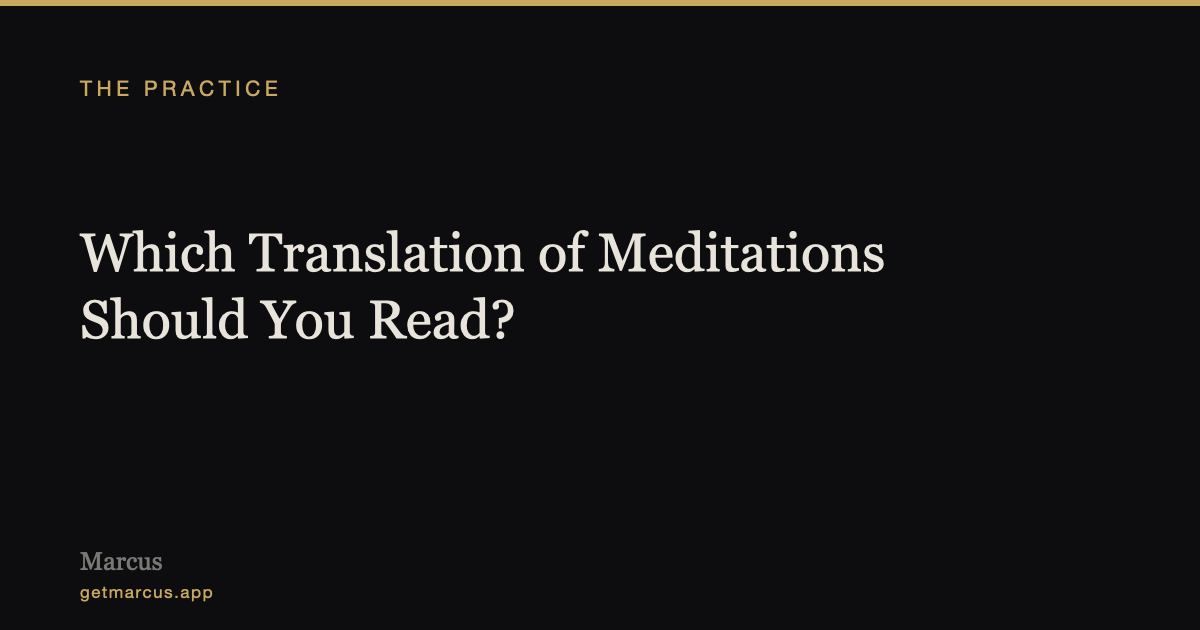
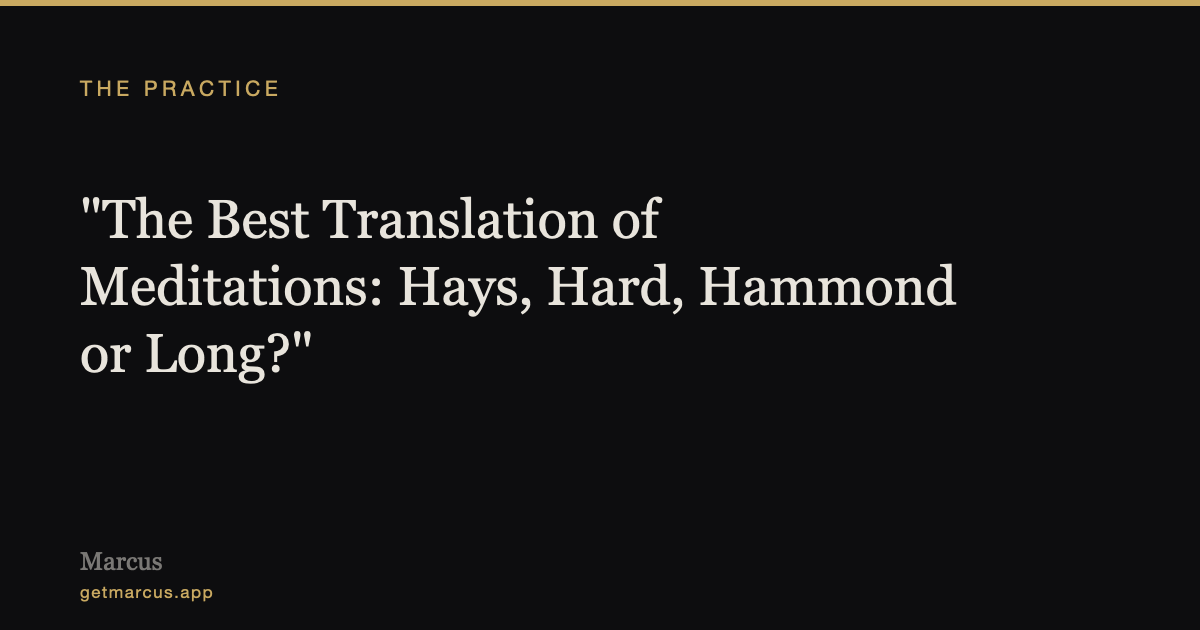
Translations page: searchers' words in the title, and one passage in three translations
It drew 289 impressions a month at positions 10 to 37 for 'best translation
of meditations' and kin, under a title that used none of those words. Adds
V.1 in Casaubon, Long and Hays, each checked verbatim (the first two against
Project Gutenberg #2680 and #15877), says why Hard, Hammond and Waterfield
are not quoted, and fixes a misquotation of Long: he wrote 'busybody', not
'busy-body'.

Changed region(s): [[0.0617, 0.3016, 0.8017, 0.6032]]

diff --git a/public/best-translation-of-meditations.html b/public/best-translation-of-meditations.html
@@ -1,4 +1,4 @@
-<!doctype html><html lang="en"><head><meta charset="utf-8"><meta name="viewport" content="width=device-width, initial-scale=1"><script src="/analytics.js"></script><title>Which Translation of Meditations Should You Read? | Marcus</title><meta name="description" content="Hays, Hard, Hammond, Waterfield and the free public-domain versions compared. Which to buy, which to avoid as a first read, and why the free Kindle edition sounds like the King James Bible."><meta name="robots" content="index, follow, max-image-preview:large"><link rel="canonical" href="https://getmarcus.app/best-translation-of-meditations"><meta property="og:type" content="article"><meta property="og:site_name" content="Marcus"><meta property="og:title" content="Which Translation of Meditations Should You Read?"><meta property="og:description" content="Hays, Hard, Hammond, Waterfield and the free public-domain versions compared. Which to buy, which to avoid as a first read, and why the free Kindle edition sounds like the King James Bible."><meta property="og:url" content="https://getmarcus.app/best-translation-of-meditations"><meta property="og:image" content="https://getmarcus.app/og/best-translation-of-meditations.png"><meta property="og:image:width" content="1200"><meta property="og:image:height" content="630"><meta name="twitter:card" content="summary_large_image"><meta name="twitter:title" content="Which Translation of Meditations Should You Read?"><meta name="twitter:description" content="Hays, Hard, Hammond, Waterfield and the free public-domain versions compared. Which to buy, which to avoid as a first read, and why the free Kindle edition sounds like the King James Bible."><meta name="twitter:image" content="https://getmarcus.app/og/best-translation-of-meditations.png"><link rel="icon" href="/favicon.ico" sizes="48x48"><link rel="icon" type="image/png" href="/favicon.png"><link rel="apple-touch-icon" href="/apple-touch-icon.png"><link rel="preconnect" href="https://fonts.googleapis.com"><link rel="preconnect" href="https://fonts.gstatic.com" crossorigin><link rel="preload" as="style" href="https://fonts.googleapis.com/css2?family=Cinzel:wght@400;600;700&family=Inter:ital,wght@0,400;0,500;1,300;1,400&display=swap"><link rel="stylesheet" href="https://fonts.googleapis.com/css2?family=Cinzel:wght@400;600;700&family=Inter:ital,wght@0,400;0,500;1,300;1,400&display=swap" media="print" onload="this.media='all';this.onload=null"><noscript><link rel="stylesheet" href="https://fonts.googleapis.com/css2?family=Cinzel:wght@400;600;700&family=Inter:ital,wght@0,400;0,500;1,300;1,400&display=swap"></noscript><style>
+<!doctype html><html lang="en"><head><meta charset="utf-8"><meta name="viewport" content="width=device-width, initial-scale=1"><script src="/analytics.js"></script><title>The Best Translation of Meditations: Hays, Hard, Hammond or Long? | Marcus</title><meta name="description" content="The best version of Marcus Aurelius's Meditations to read, compared. Hays, Hard, Hammond, Waterfield and the free Long and Casaubon, with the same passage in three translations side by side."><meta name="robots" content="index, follow, max-image-preview:large"><link rel="canonical" href="https://getmarcus.app/best-translation-of-meditations"><meta property="og:type" content="article"><meta property="og:site_name" content="Marcus"><meta property="og:title" content="The Best Translation of Meditations: Hays, Hard, Hammond or Long?"><meta property="og:description" content="The best version of Marcus Aurelius's Meditations to read, compared. Hays, Hard, Hammond, Waterfield and the free Long and Casaubon, with the same passage in three translations side by side."><meta property="og:url" content="https://getmarcus.app/best-translation-of-meditations"><meta property="og:image" content="https://getmarcus.app/og/best-translation-of-meditations.png"><meta property="og:image:width" content="1200"><meta property="og:image:height" content="630"><meta name="twitter:card" content="summary_large_image"><meta name="twitter:title" content="The Best Translation of Meditations: Hays, Hard, Hammond or Long?"><meta name="twitter:description" content="The best version of Marcus Aurelius's Meditations to read, compared. Hays, Hard, Hammond, Waterfield and the free Long and Casaubon, with the same passage in three translations side by side."><meta name="twitter:image" content="https://getmarcus.app/og/best-translation-of-meditations.png"><link rel="icon" href="/favicon.ico" sizes="48x48"><link rel="icon" type="image/png" href="/favicon.png"><link rel="apple-touch-icon" href="/apple-touch-icon.png"><link rel="preconnect" href="https://fonts.googleapis.com"><link rel="preconnect" href="https://fonts.gstatic.com" crossorigin><link rel="preload" as="style" href="https://fonts.googleapis.com/css2?family=Cinzel:wght@400;600;700&family=Inter:ital,wght@0,400;0,500;1,300;1,400&display=swap"><link rel="stylesheet" href="https://fonts.googleapis.com/css2?family=Cinzel:wght@400;600;700&family=Inter:ital,wght@0,400;0,500;1,300;1,400&display=swap" media="print" onload="this.media='all';this.onload=null"><noscript><link rel="stylesheet" href="https://fonts.googleapis.com/css2?family=Cinzel:wght@400;600;700&family=Inter:ital,wght@0,400;0,500;1,300;1,400&display=swap"></noscript><style>
 *{box-sizing:border-box}
 body{margin:0;background:#0d0d0f;color:#e8e4dc;font-family:Inter,system-ui,-apple-system,sans-serif;line-height:1.7;-webkit-font-smoothing:antialiased}
 a{color:inherit}
@@ -44,4 +44,4 @@ img{max-width:100%;display:block}
 
 /* Shared chrome last: these override the builder's own nav rules, and a
    mobile menu that cannot hide is worse than no mobile menu. */
-@media (min-width:721px){.ar-nav-toggle{display:none}}@media (max-width:720px){.ar-nav{flex-wrap:wrap}.ar-nav-toggle{display:flex;flex-direction:column;justify-content:center;gap:5px;width:44px;height:44px;padding:0 10px;background:none;border:0;cursor:pointer}.ar-nav-toggle span{display:block;height:2px;background:#e8e4dc;border-radius:2px;transition:.2s}.ar-nav-open .ar-nav-toggle span:nth-child(1){transform:translateY(7px) rotate(45deg)}.ar-nav-open .ar-nav-toggle span:nth-child(2){opacity:0}.ar-nav-open .ar-nav-toggle span:nth-child(3){transform:translateY(-7px) rotate(-45deg)}.ar-nav-right{display:none;flex-basis:100%;flex-direction:column;align-items:stretch;gap:0;padding:4px 0 10px}.ar-nav-open .ar-nav-right{display:flex}.ar-nav-right .ar-nav-link{padding:14px 2px;border-top:1px solid rgba(232,228,220,.1)}.ar-nav-right .ar-nav-cta{margin-top:14px;text-align:center;padding:13px 16px}}img[src="/skull-gold.png"]{object-fit:contain}a:focus-visible,button:focus-visible,input:focus-visible,textarea:focus-visible,[tabindex]:focus-visible{outline:2px solid #c9a961;outline-offset:3px;border-radius:3px}.ar-skip{position:absolute;left:-9999px;top:0;z-index:100;background:#c9a961;color:#0d0d0f;padding:10px 16px;border-radius:0 0 8px 0;font-size:14px;text-decoration:none}.ar-skip:focus{left:0}</style><script type="application/ld+json">{"@context":"https://schema.org","@graph":[{"@type":"Article","@id":"https://getmarcus.app/best-translation-of-meditations#article","headline":"Which Translation of Meditations Should You Read?","description":"Hays, Hard, Hammond, Waterfield and the free public-domain versions compared. Which to buy, which to avoid as a first read, and why the free Kindle edition sounds like the King James Bible.","url":"https://getmarcus.app/best-translation-of-meditations","mainEntityOfPage":{"@id":"https://getmarcus.app/best-translation-of-meditations#webpage"},"datePublished":"2026-08-02","dateModified":"2026-08-02","inLanguage":"en-US","wordCount":766,"articleSection":"Stoic practice","author":{"@id":"https://getmarcus.app#author"},"publisher":{"@id":"https://getmarcus.app#org"},"isPartOf":{"@id":"https://getmarcus.app#website"},"about":[{"@type":"DefinedTerm","name":"Meditations","description":"The private notebook of Marcus Aurelius, written in Greek on campaign and never intended for publication.","sameAs":"https://en.wikipedia.org/wiki/Meditations"}],"mentions":[{"@type":"Person","name":"Marcus Aurelius","sameAs":"https://en.wikipedia.org/wiki/Marcus_Aurelius"},{"@type":"Person","name":"Gregory Hays","sameAs":"https://en.wikipedia.org/wiki/Meditations"}]},{"@type":"WebPage","@id":"https://getmarcus.app/best-translation-of-meditations#webpage","url":"https://getmarcus.app/best-translation-of-meditations","name":"Which Translation of Meditations Should You Read?","isPartOf":{"@id":"https://getmarcus.app#website"},"breadcrumb":{"@id":"https://getmarcus.app/best-translation-of-meditations#breadcrumb"}},{"@type":"BreadcrumbList","@id":"https://getmarcus.app/best-translation-of-meditations#breadcrumb","itemListElement":[{"@type":"ListItem","position":1,"name":"Home","item":"https://getmarcus.app/"},{"@type":"ListItem","position":2,"name":"Learn","item":"https://getmarcus.app/learn"},{"@type":"ListItem","position":3,"name":"Which Translation of Meditations Should You Read?"}]},{"@type":"Person","@id":"https://getmarcus.app#author","name":"Gio White","url":"https://getmarcus.app/about","sameAs":["https://www.linkedin.com/in/giovanniwhite/"],"worksFor":{"@id":"https://getmarcus.app#org"},"image":"https://getmarcus.app/img/author.jpg"},{"@type":"Organization","@id":"https://getmarcus.app#org","name":"Marcus","url":"https://getmarcus.app","logo":"https://getmarcus.app/skull-gold.png","description":"A Stoic practice app for iOS."},{"@type":"WebSite","@id":"https://getmarcus.app#website","url":"https://getmarcus.app","name":"Marcus","publisher":{"@id":"https://getmarcus.app#org"},"inLanguage":"en-US"}]}</script></head><body><a class="ar-skip" href="#main">Skip to content</a><nav class="ar-nav"><a class="ar-brand" href="/"><img src="/skull-gold.png" alt="Marcus" width="27" height="36"><span>Marcus</span></a><button class="ar-nav-toggle" type="button" aria-expanded="false" aria-controls="ar-menu" aria-label="Menu"><span></span><span></span><span></span></button><div class="ar-nav-right" id="ar-menu"><a class="ar-nav-link" href="/learn">Learn</a><a class="ar-nav-link" href="/stoics">The Stoics</a><a class="ar-nav-link" href="/stoic-quotes">Quotes</a><a class="ar-nav-cta" href="/">Get the app →</a></div></nav><script>(function(){var n=document.querySelector(".ar-nav");if(!n)return;var b=n.querySelector(".ar-nav-toggle");if(!b)return;b.addEventListener("click",function(){var o=n.classList.toggle("ar-nav-open");b.setAttribute("aria-expanded",o?"true":"false");});})();</script><article class="ar-main" id="main"><header class="ar-head"><p class="ar-eyebrow"><a href="/learn">The practice</a></p><h1 class="ar-title">Which Translation of Meditations Should You Read?</h1><p class="ar-byline"><img src="/img/author.jpg" alt="" width="30" height="30">By <a href="/about">Gio White</a><span>&middot;</span><a href="/about">How sources are checked</a></p></header><p class="ar-p">Marcus wrote in Greek, for himself, with no intention of being read. That makes the <em>Meditations</em> unusually dependent on its translator: there is no argument to follow and no narrative to carry you, so if the prose does not land, the book does not work.</p><p class="ar-p">Which is why people who bought the wrong edition often conclude the <em>Meditations</em> is dry. Usually they downloaded the free one.</p><h2 class="ar-h2">The short answer</h2><p class="ar-p"><strong>Buy the Gregory Hays translation</strong> (Modern Library, 2002) if you are reading it for practice rather than scholarship. It is the one we recommend in our <a href="/library">Library</a>, and for most readers it is not close.</p><p class="ar-p">Read on if you want to know what you are trading away, because Hays does trade something.</p><h2 class="ar-h2">The free version, and why it reads oddly</h2><p class="ar-p">Almost every free ebook of the <em>Meditations</em> is <strong>George Long&rsquo;s 1862 translation</strong>, because it is long out of copyright. It is a serious piece of Victorian scholarship and it is the reason many people believe Marcus wrote like a bishop.</p><blockquote class="ar-quote"><span>Begin the morning by saying to thyself, I shall meet with the busy-body, the ungrateful, arrogant, deceitful, envious, unsocial.</span></blockquote><p class="ar-p">That is Long. It is accurate. It is also 160 years old, and the archaism is Long&rsquo;s, not Marcus&rsquo;s. Marcus wrote plain, urgent, sometimes ungrammatical notes to himself. Meric Casaubon&rsquo;s 1634 version, also free, is further away still.</p><p class="ar-p">If you have tried the <em>Meditations</em> and found it stiff, this is very likely what happened. It is not the book.</p><h2 class="ar-h2">The main modern options</h2><p class="ar-p"><strong>Gregory Hays</strong> (Modern Library, 2002) &mdash; <em>the recommendation.</em></p><p class="ar-p">Hays writes as though Marcus were talking, because he was. Short lines, contemporary English, no ornament. &quot;The impediment to action advances action. What stands in the way becomes the way&quot; is his, and its afterlife tells you something about how well it works.</p><p class="ar-p">The trade: Hays takes liberties. He compresses, he breaks paragraphs where the Greek does not, and he occasionally sacrifices literal accuracy for force. Scholars have reservations. For a reader who wants the book to change how they act on a Tuesday, those reservations do not much matter. His introduction is also the best short essay on Marcus you can get for the price of the book.</p><p class="ar-p"><strong>Robin Hard</strong> (Oxford World&rsquo;s Classics, 2011) &mdash; <em>the best balance.</em></p><p class="ar-p">More faithful than Hays, more readable than Long, and the Oxford notes are genuinely useful when Marcus refers to something you do not know. If you want one edition to keep and reread, this is a strong case. Hard also translated the Epictetus we recommend, so the two sit well together.</p><p class="ar-p"><strong>Martin Hammond</strong> (Penguin Classics, 2006) &mdash; <em>the scholarly middle.</em></p><p class="ar-p">Careful, well annotated, slightly cooler on the page than Hays. Excellent if you want precision without archaism.</p><p class="ar-p"><strong>Robin Waterfield</strong> (Basic Books, 2021) &mdash; <em>the newest.</em></p><p class="ar-p">A fine modern translation with substantial commentary, and Waterfield is a very experienced hand with Greek philosophy. Worth considering if you like heavy apparatus.</p><h2 class="ar-h2">Which to actually buy</h2><p class="ar-p"><strong>Reading it to practice, first time:</strong> Hays. It is the only one that consistently makes people want to keep reading.</p><p class="ar-p"><strong>Reading it as a text you will return to for years:</strong> Hard. Better notes, closer to the Greek, still alive on the page.</p><p class="ar-p"><strong>Reading it for study or comparison:</strong> Hammond or Waterfield, and ideally alongside one of the others.</p><p class="ar-p"><strong>Reading it for free:</strong> Long is legitimate and costs nothing. Know that the distance you feel is Victorian English, not Marcus.</p><p class="ar-p">A reasonable approach many people land on: Hays to read, Hard to keep.</p><h2 class="ar-h2">One thing to watch when you quote it</h2><p class="ar-p">Because the translations differ so much, the same passage can be quoted in wordings that share almost no vocabulary. This is how the <em>Meditations</em> ends up looking like it contains far more distinct material than it does, and it is why quote collections repeat themselves without appearing to.</p><p class="ar-p">It is also why an unsourced Marcus quote is hard to verify: you cannot search for wording that no translator used. If a line has his name on it and no book and chapter, treat it with suspicion. Some of the most famous ones are not his at all, and we keep <a href="/misattributed-stoic-quotes">a list</a>.</p><h2 class="ar-h2">After the Meditations</h2><p class="ar-p">The usual next step is Epictetus, whose <em>Enchiridion</em> is short and whose <em>Discourses</em> are better. Then Seneca&rsquo;s letters, which are the most companionable prose in Stoicism.</p><p class="ar-p">All three, in the editions worth owning, are on our <a href="/library">Library</a> page, and the people behind them are on <a href="/stoics">The Stoics</a>. If you want the practice rather than more reading, start with <a href="/how-to-keep-a-stoic-journal">how to keep a Stoic journal</a>.</p><nav class="ar-pager"><a class="ar-pager-prev" href="/stoicism-is-not-suppressing-emotions"><span>Previous</span>Stoicism Is Not About Suppressing Emotions</a><a class="ar-pager-next" href="/did-marcus-aurelius-say-echoes-in-eternity"><span>Next</span>Did Marcus Aurelius Say &quot;What We Do in Life Echoes in Eternity&quot;?</a></nav><section class="ar-app"><img class="ar-app-skull" src="/skull-gold.png" alt="" width="64" height="64"><p class="ar-app-copy">Marcus turns this into a daily practice for iOS: a morning preparation, a daily reading, and a structured evening examination.</p><a class="ar-nav-cta" href="/">Explore the app →</a></section></article><footer class="ar-footer"><p>Marcus &middot; A Stoic Practice App &middot; <a href="/">getmarcus.app</a> &middot; <a href="/learn">Learn</a> &middot; <a href="/stoics">The Stoics</a> &middot; <a href="/library">The Library</a> &middot; <a href="/stoic-quotes">Sourced quotes</a> &middot; <a href="/check-a-stoic-quote">Check a quote</a> &middot; <a href="/misattributed-stoic-quotes">Attribution</a> &middot; <a href="/about">About</a></p></footer></body></html>
+@media (min-width:721px){.ar-nav-toggle{display:none}}@media (max-width:720px){.ar-nav{flex-wrap:wrap}.ar-nav-toggle{display:flex;flex-direction:column;justify-content:center;gap:5px;width:44px;height:44px;padding:0 10px;background:none;border:0;cursor:pointer}.ar-nav-toggle span{display:block;height:2px;background:#e8e4dc;border-radius:2px;transition:.2s}.ar-nav-open .ar-nav-toggle span:nth-child(1){transform:translateY(7px) rotate(45deg)}.ar-nav-open .ar-nav-toggle span:nth-child(2){opacity:0}.ar-nav-open .ar-nav-toggle span:nth-child(3){transform:translateY(-7px) rotate(-45deg)}.ar-nav-right{display:none;flex-basis:100%;flex-direction:column;align-items:stretch;gap:0;padding:4px 0 10px}.ar-nav-open .ar-nav-right{display:flex}.ar-nav-right .ar-nav-link{padding:14px 2px;border-top:1px solid rgba(232,228,220,.1)}.ar-nav-right .ar-nav-cta{margin-top:14px;text-align:center;padding:13px 16px}}img[src="/skull-gold.png"]{object-fit:contain}a:focus-visible,button:focus-visible,input:focus-visible,textarea:focus-visible,[tabindex]:focus-visible{outline:2px solid #c9a961;outline-offset:3px;border-radius:3px}.ar-skip{position:absolute;left:-9999px;top:0;z-index:100;background:#c9a961;color:#0d0d0f;padding:10px 16px;border-radius:0 0 8px 0;font-size:14px;text-decoration:none}.ar-skip:focus{left:0}</style><script type="application/ld+json">{"@context":"https://schema.org","@graph":[{"@type":"Article","@id":"https://getmarcus.app/best-translation-of-meditations#article","headline":"The Best Translation of Meditations: Hays, Hard, Hammond or Long?","description":"The best version of Marcus Aurelius's Meditations to read, compared. Hays, Hard, Hammond, Waterfield and the free Long and Casaubon, with the same passage in three translations side by side.","url":"https://getmarcus.app/best-translation-of-meditations","mainEntityOfPage":{"@id":"https://getmarcus.app/best-translation-of-meditations#webpage"},"datePublished":"2026-08-02","dateModified":"2026-10-28","inLanguage":"en-US","wordCount":965,"articleSection":"Stoic practice","author":{"@id":"https://getmarcus.app#author"},"publisher":{"@id":"https://getmarcus.app#org"},"isPartOf":{"@id":"https://getmarcus.app#website"},"about":[{"@type":"DefinedTerm","name":"Meditations","description":"The private notebook of Marcus Aurelius, written in Greek on campaign and never intended for publication.","sameAs":"https://en.wikipedia.org/wiki/Meditations"}],"mentions":[{"@type":"Person","name":"Marcus Aurelius","sameAs":"https://en.wikipedia.org/wiki/Marcus_Aurelius"},{"@type":"Person","name":"Gregory Hays","sameAs":"https://en.wikipedia.org/wiki/Meditations"}]},{"@type":"WebPage","@id":"https://getmarcus.app/best-translation-of-meditations#webpage","url":"https://getmarcus.app/best-translation-of-meditations","name":"The Best Translation of Meditations: Hays, Hard, Hammond or Long?","isPartOf":{"@id":"https://getmarcus.app#website"},"breadcrumb":{"@id":"https://getmarcus.app/best-translation-of-meditations#breadcrumb"}},{"@type":"BreadcrumbList","@id":"https://getmarcus.app/best-translation-of-meditations#breadcrumb","itemListElement":[{"@type":"ListItem","position":1,"name":"Home","item":"https://getmarcus.app/"},{"@type":"ListItem","position":2,"name":"Learn","item":"https://getmarcus.app/learn"},{"@type":"ListItem","position":3,"name":"The Best Translation of Meditations: Hays, Hard, Hammond or Long?"}]},{"@type":"Person","@id":"https://getmarcus.app#author","name":"Gio White","url":"https://getmarcus.app/about","sameAs":["https://www.linkedin.com/in/giovanniwhite/"],"worksFor":{"@id":"https://getmarcus.app#org"},"image":"https://getmarcus.app/img/author.jpg"},{"@type":"Organization","@id":"https://getmarcus.app#org","name":"Marcus","url":"https://getmarcus.app","logo":"https://getmarcus.app/skull-gold.png","description":"A Stoic practice app for iOS."},{"@type":"WebSite","@id":"https://getmarcus.app#website","url":"https://getmarcus.app","name":"Marcus","publisher":{"@id":"https://getmarcus.app#org"},"inLanguage":"en-US"}]}</script></head><body><a class="ar-skip" href="#main">Skip to content</a><nav class="ar-nav"><a class="ar-brand" href="/"><img src="/skull-gold.png" alt="Marcus" width="27" height="36"><span>Marcus</span></a><button class="ar-nav-toggle" type="button" aria-expanded="false" aria-controls="ar-menu" aria-label="Menu"><span></span><span></span><span></span></button><div class="ar-nav-right" id="ar-menu"><a class="ar-nav-link" href="/learn">Learn</a><a class="ar-nav-link" href="/stoics">The Stoics</a><a class="ar-nav-link" href="/stoic-quotes">Quotes</a><a class="ar-nav-cta" href="/">Get the app →</a></div></nav><script>(function(){var n=document.querySelector(".ar-nav");if(!n)return;var b=n.querySelector(".ar-nav-toggle");if(!b)return;b.addEventListener("click",function(){var o=n.classList.toggle("ar-nav-open");b.setAttribute("aria-expanded",o?"true":"false");});})();</script><article class="ar-main" id="main"><header class="ar-head"><p class="ar-eyebrow"><a href="/learn">The practice</a></p><h1 class="ar-title">The Best Translation of Meditations: Hays, Hard, Hammond or Long?</h1><p class="ar-byline"><img src="/img/author.jpg" alt="" width="30" height="30">By <a href="/about">Gio White</a><span>&middot;</span><a href="/about">How sources are checked</a></p></header><p class="ar-p">Marcus wrote in Greek, for himself, with no intention of being read. That makes the <em>Meditations</em> unusually dependent on its translator: there is no argument to follow and no narrative to carry you, so if the prose does not land, the book does not work.</p><p class="ar-p">Which is why people who bought the wrong edition often conclude the <em>Meditations</em> is dry. Usually they downloaded the free one.</p><h2 class="ar-h2">What is the best translation of Meditations?</h2><p class="ar-p"><strong>Buy the Gregory Hays translation</strong> (Modern Library, 2002) if you are reading it for practice rather than scholarship. It is the one we recommend in our <a href="/library">Library</a>, and for most readers it is not close.</p><p class="ar-p">Read on if you want to know what you are trading away, because Hays does trade something.</p><h2 class="ar-h2">The free version, and why it reads oddly</h2><p class="ar-p">Almost every free ebook of the <em>Meditations</em> is <strong>George Long&rsquo;s 1862 translation</strong>, because it is long out of copyright. It is a serious piece of Victorian scholarship and it is the reason many people believe Marcus wrote like a bishop.</p><blockquote class="ar-quote"><span>Begin the morning by saying to thyself, I shall meet with the busybody, the ungrateful, arrogant, deceitful, envious, unsocial.</span></blockquote><p class="ar-p">That is Long. It is accurate. It is also 160 years old, and the archaism is Long&rsquo;s, not Marcus&rsquo;s. Marcus wrote plain, urgent, sometimes ungrammatical notes to himself. Meric Casaubon&rsquo;s 1634 version, also free, is further away still.</p><p class="ar-p">If you have tried the <em>Meditations</em> and found it stiff, this is very likely what happened. It is not the book.</p><h2 class="ar-h2">The same passage, three ways</h2><p class="ar-p">Book V opens with Marcus talking himself out of bed. Here is how three translators, across almost four centuries, rendered the first lines.</p><p class="ar-p">Meric Casaubon, 1634:</p><blockquote class="ar-quote"><span>In the morning when thou findest thyself unwilling to rise, consider with thyself presently, it is to go about a man&rsquo;s work that I am stirred up.</span></blockquote><p class="ar-p">George Long, 1862:</p><blockquote class="ar-quote"><span>In the morning when thou risest unwillingly, let this thought be present—I am rising to the work of a human being.</span></blockquote><p class="ar-p">Gregory Hays, 2002:</p><blockquote class="ar-quote"><span>At dawn, when you have trouble getting out of bed, tell yourself: I have to go to work &mdash; as a human being.</span></blockquote><p class="ar-p">Same Greek, same idea: you were made to work, so get up. The difference is distance. Casaubon and Long sound like scripture; Hays sounds like a man talking to himself, which is what the book is.</p><p class="ar-p">We have left out Hard, Hammond and Waterfield here, not because they are worse but because we only quote what we can check word for word, and their texts are not freely available to check against. The free versions are on Project Gutenberg if you want to compare further passages yourself.</p><h2 class="ar-h2">The main modern options</h2><p class="ar-p"><strong>Gregory Hays</strong> (Modern Library, 2002) &mdash; <em>the recommendation.</em></p><p class="ar-p">Hays writes as though Marcus were talking, because he was. Short lines, contemporary English, no ornament. &quot;The impediment to action advances action. What stands in the way becomes the way&quot; is his, and its afterlife tells you something about how well it works.</p><p class="ar-p">The trade: Hays takes liberties. He compresses, he breaks paragraphs where the Greek does not, and he occasionally sacrifices literal accuracy for force. Scholars have reservations. For a reader who wants the book to change how they act on a Tuesday, those reservations do not much matter. His introduction is also the best short essay on Marcus you can get for the price of the book.</p><p class="ar-p"><strong>Robin Hard</strong> (Oxford World&rsquo;s Classics, 2011) &mdash; <em>the best balance.</em></p><p class="ar-p">More faithful than Hays, more readable than Long, and the Oxford notes are genuinely useful when Marcus refers to something you do not know. If you want one edition to keep and reread, this is a strong case. Hard also translated the Epictetus we recommend, so the two sit well together.</p><p class="ar-p"><strong>Martin Hammond</strong> (Penguin Classics, 2006) &mdash; <em>the scholarly middle.</em></p><p class="ar-p">Careful, well annotated, slightly cooler on the page than Hays. Excellent if you want precision without archaism.</p><p class="ar-p"><strong>Robin Waterfield</strong> (Basic Books, 2021) &mdash; <em>the newest.</em></p><p class="ar-p">A fine modern translation with substantial commentary, and Waterfield is a very experienced hand with Greek philosophy. Worth considering if you like heavy apparatus.</p><h2 class="ar-h2">Which to actually buy</h2><p class="ar-p"><strong>Reading it to practice, first time:</strong> Hays. It is the only one that consistently makes people want to keep reading.</p><p class="ar-p"><strong>Reading it as a text you will return to for years:</strong> Hard. Better notes, closer to the Greek, still alive on the page.</p><p class="ar-p"><strong>Reading it for study or comparison:</strong> Hammond or Waterfield, and ideally alongside one of the others.</p><p class="ar-p"><strong>Reading it for free:</strong> Long is legitimate and costs nothing. Know that the distance you feel is Victorian English, not Marcus.</p><p class="ar-p">A reasonable approach many people land on: Hays to read, Hard to keep.</p><h2 class="ar-h2">One thing to watch when you quote it</h2><p class="ar-p">Because the translations differ so much, the same passage can be quoted in wordings that share almost no vocabulary. This is how the <em>Meditations</em> ends up looking like it contains far more distinct material than it does, and it is why quote collections repeat themselves without appearing to.</p><p class="ar-p">It is also why an unsourced Marcus quote is hard to verify: you cannot search for wording that no translator used. If a line has his name on it and no book and chapter, treat it with suspicion. Some of the most famous ones are not his at all, and we keep <a href="/misattributed-stoic-quotes">a list</a>.</p><h2 class="ar-h2">After the Meditations</h2><p class="ar-p">The usual next step is Epictetus, whose <em>Enchiridion</em> is short and whose <em>Discourses</em> are better. Then Seneca&rsquo;s letters, which are the most companionable prose in Stoicism.</p><p class="ar-p">All three, in the editions worth owning, are on our <a href="/library">Library</a> page, and the people behind them are on <a href="/stoics">The Stoics</a>. If you want the practice rather than more reading, start with <a href="/how-to-keep-a-stoic-journal">how to keep a Stoic journal</a>.</p><nav class="ar-pager"><a class="ar-pager-prev" href="/stoicism-is-not-suppressing-emotions"><span>Previous</span>Stoicism Is Not About Suppressing Emotions</a><a class="ar-pager-next" href="/did-marcus-aurelius-say-echoes-in-eternity"><span>Next</span>Did Marcus Aurelius Say &quot;What We Do in Life Echoes in Eternity&quot;?</a></nav><section class="ar-app"><img class="ar-app-skull" src="/skull-gold.png" alt="" width="64" height="64"><p class="ar-app-copy">Marcus turns this into a daily practice for iOS: a morning preparation, a daily reading, and a structured evening examination.</p><a class="ar-nav-cta" href="/">Explore the app →</a></section></article><footer class="ar-footer"><p>Marcus &middot; A Stoic Practice App &middot; <a href="/">getmarcus.app</a> &middot; <a href="/learn">Learn</a> &middot; <a href="/stoics">The Stoics</a> &middot; <a href="/library">The Library</a> &middot; <a href="/stoic-quotes">Sourced quotes</a> &middot; <a href="/check-a-stoic-quote">Check a quote</a> &middot; <a href="/misattributed-stoic-quotes">Attribution</a> &middot; <a href="/about">About</a></p></footer></body></html>

diff --git a/content/articles/7-best-translation-of-meditations.md b/content/articles/7-best-translation-of-meditations.md
@@ -1,10 +1,10 @@
 ---
 slug: best-translation-of-meditations
-title: Which Translation of Meditations Should You Read?
-description: Hays, Hard, Hammond, Waterfield and the free public-domain versions compared. Which to buy, which to avoid as a first read, and why the free Kindle edition sounds like the King James Bible.
+title: "The Best Translation of Meditations: Hays, Hard, Hammond or Long?"
+description: The best version of Marcus Aurelius's Meditations to read, compared. Hays, Hard, Hammond, Waterfield and the free Long and Casaubon, with the same passage in three translations side by side.
 pillar: practice
 published: 2026-08-02
-modified: 2026-08-02
+modified: 2026-10-28
 about: [{"name": "Meditations", "description": "The private notebook of Marcus Aurelius, written in Greek on campaign and never intended for publication.", "sameAs": "https://en.wikipedia.org/wiki/Meditations"}]
 mentions: [{"name": "Marcus Aurelius", "sameAs": "https://en.wikipedia.org/wiki/Marcus_Aurelius"}, {"name": "Gregory Hays", "sameAs": "https://en.wikipedia.org/wiki/Meditations"}]
 ---
@@ -13,7 +13,7 @@ Marcus wrote in Greek, for himself, with no intention of being read. That makes 
 
 Which is why people who bought the wrong edition often conclude the *Meditations* is dry. Usually they downloaded the free one.
 
-## The short answer
+## What is the best translation of Meditations?
 
 **Buy the Gregory Hays translation** (Modern Library, 2002) if you are reading it for practice rather than scholarship. It is the one we recommend in our [Library](/library), and for most readers it is not close.
 
@@ -23,11 +23,31 @@ Read on if you want to know what you are trading away, because Hays does trade s
 
 Almost every free ebook of the *Meditations* is **George Long's 1862 translation**, because it is long out of copyright. It is a serious piece of Victorian scholarship and it is the reason many people believe Marcus wrote like a bishop.
 
-> Begin the morning by saying to thyself, I shall meet with the busy-body, the ungrateful, arrogant, deceitful, envious, unsocial.
+> Begin the morning by saying to thyself, I shall meet with the busybody, the ungrateful, arrogant, deceitful, envious, unsocial.
 
 That is Long. It is accurate. It is also 160 years old, and the archaism is Long's, not Marcus's. Marcus wrote plain, urgent, sometimes ungrammatical notes to himself. Meric Casaubon's 1634 version, also free, is further away still.
 
 If you have tried the *Meditations* and found it stiff, this is very likely what happened. It is not the book.
+
+## The same passage, three ways
+
+Book V opens with Marcus talking himself out of bed. Here is how three translators, across almost four centuries, rendered the first lines.
+
+Meric Casaubon, 1634:
+
+> In the morning when thou findest thyself unwilling to rise, consider with thyself presently, it is to go about a man's work that I am stirred up.
+
+George Long, 1862:
+
+> In the morning when thou risest unwillingly, let this thought be present—I am rising to the work of a human being.
+
+Gregory Hays, 2002:
+
+> At dawn, when you have trouble getting out of bed, tell yourself: I have to go to work — as a human being.
+
+Same Greek, same idea: you were made to work, so get up. The difference is distance. Casaubon and Long sound like scripture; Hays sounds like a man talking to himself, which is what the book is.
+
+We have left out Hard, Hammond and Waterfield here, not because they are worse but because we only quote what we can check word for word, and their texts are not freely available to check against. The free versions are on Project Gutenberg if you want to compare further passages yourself.
 
 ## The main modern options
 
